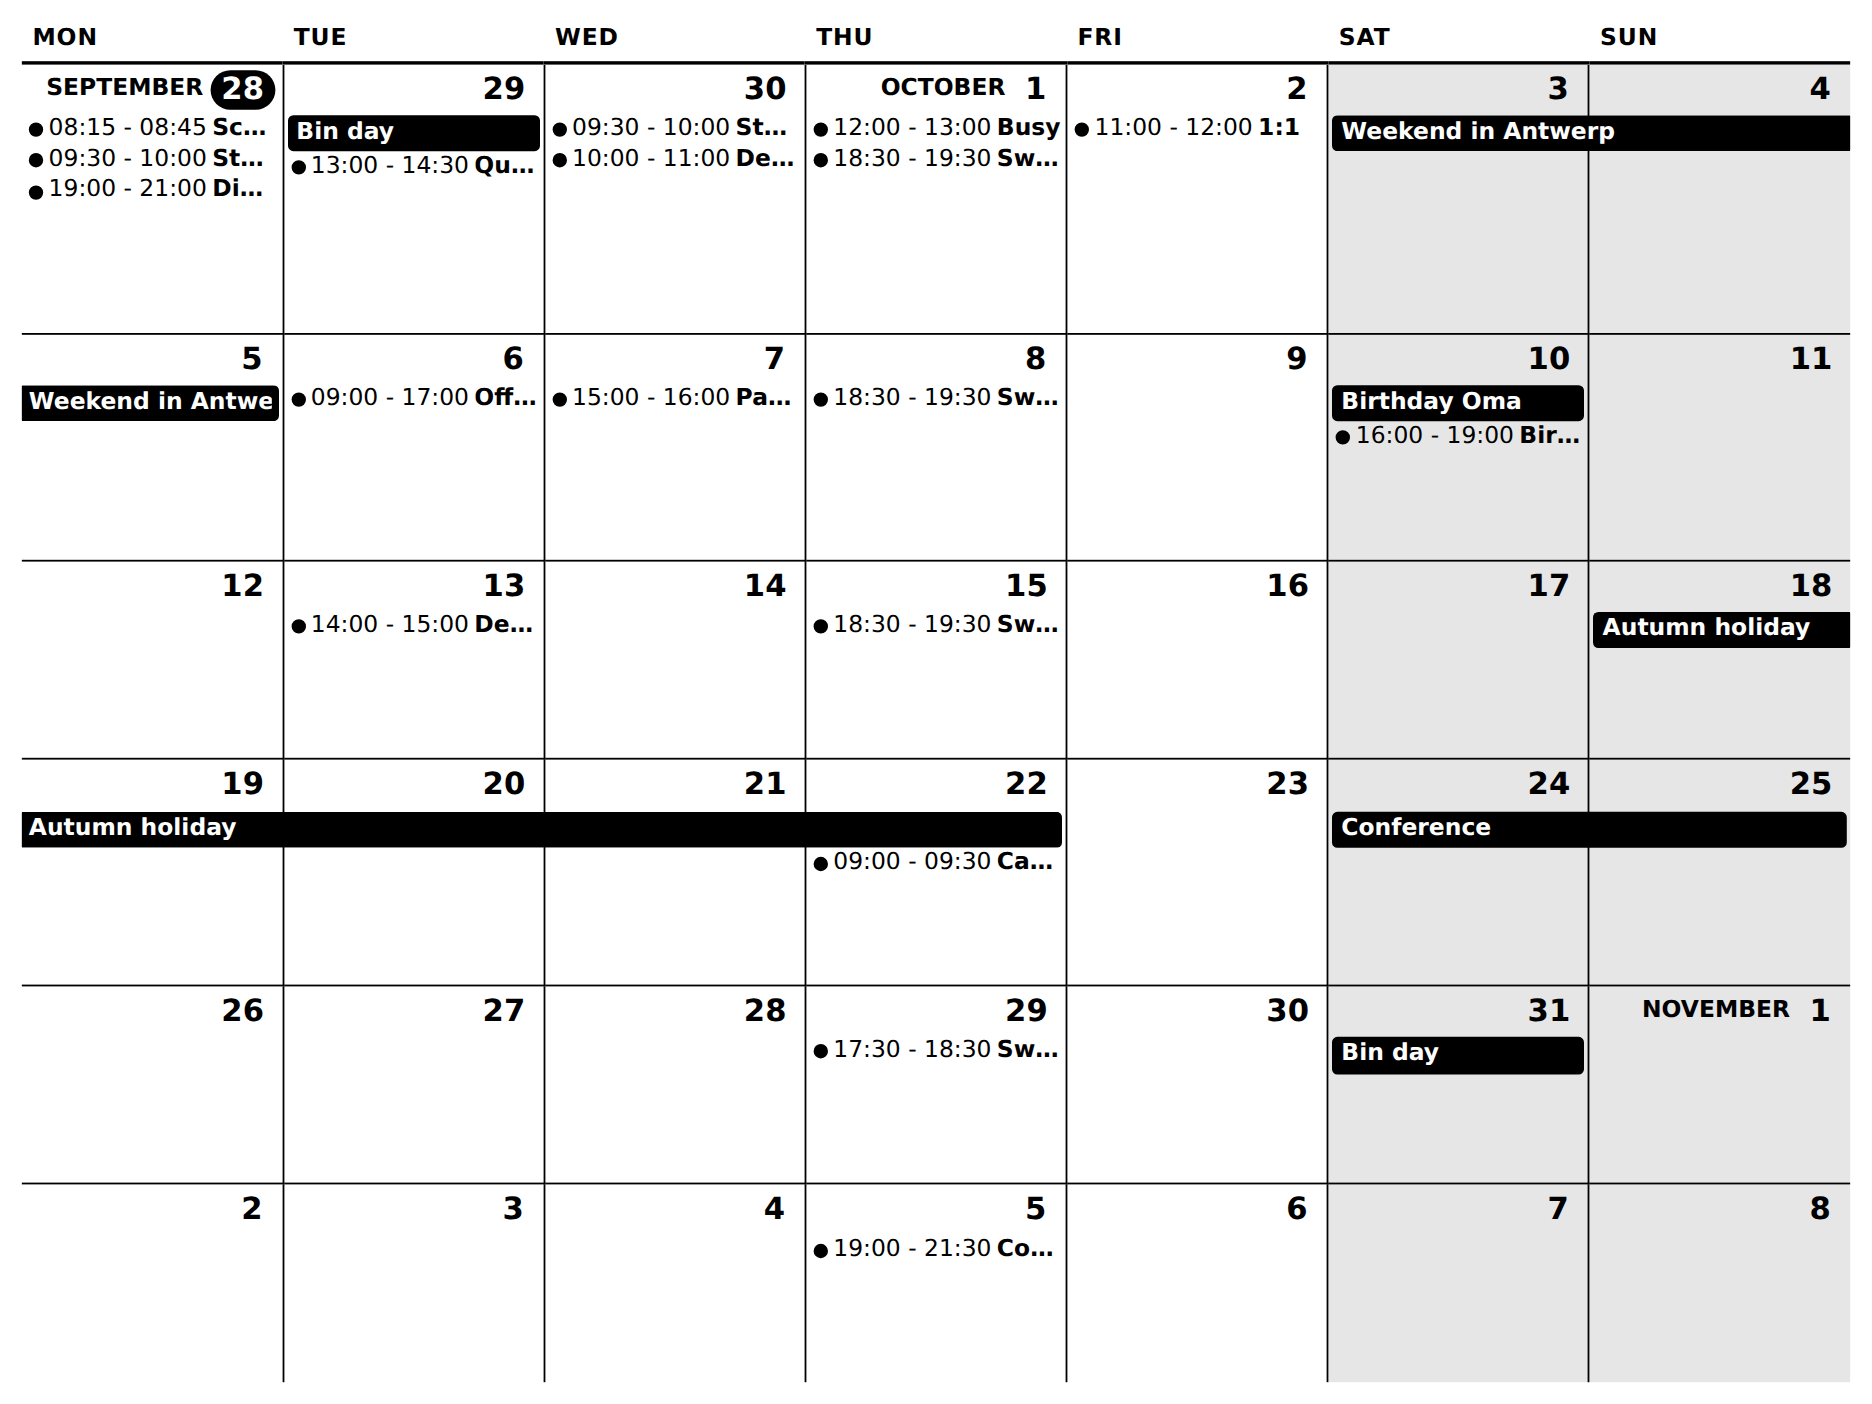
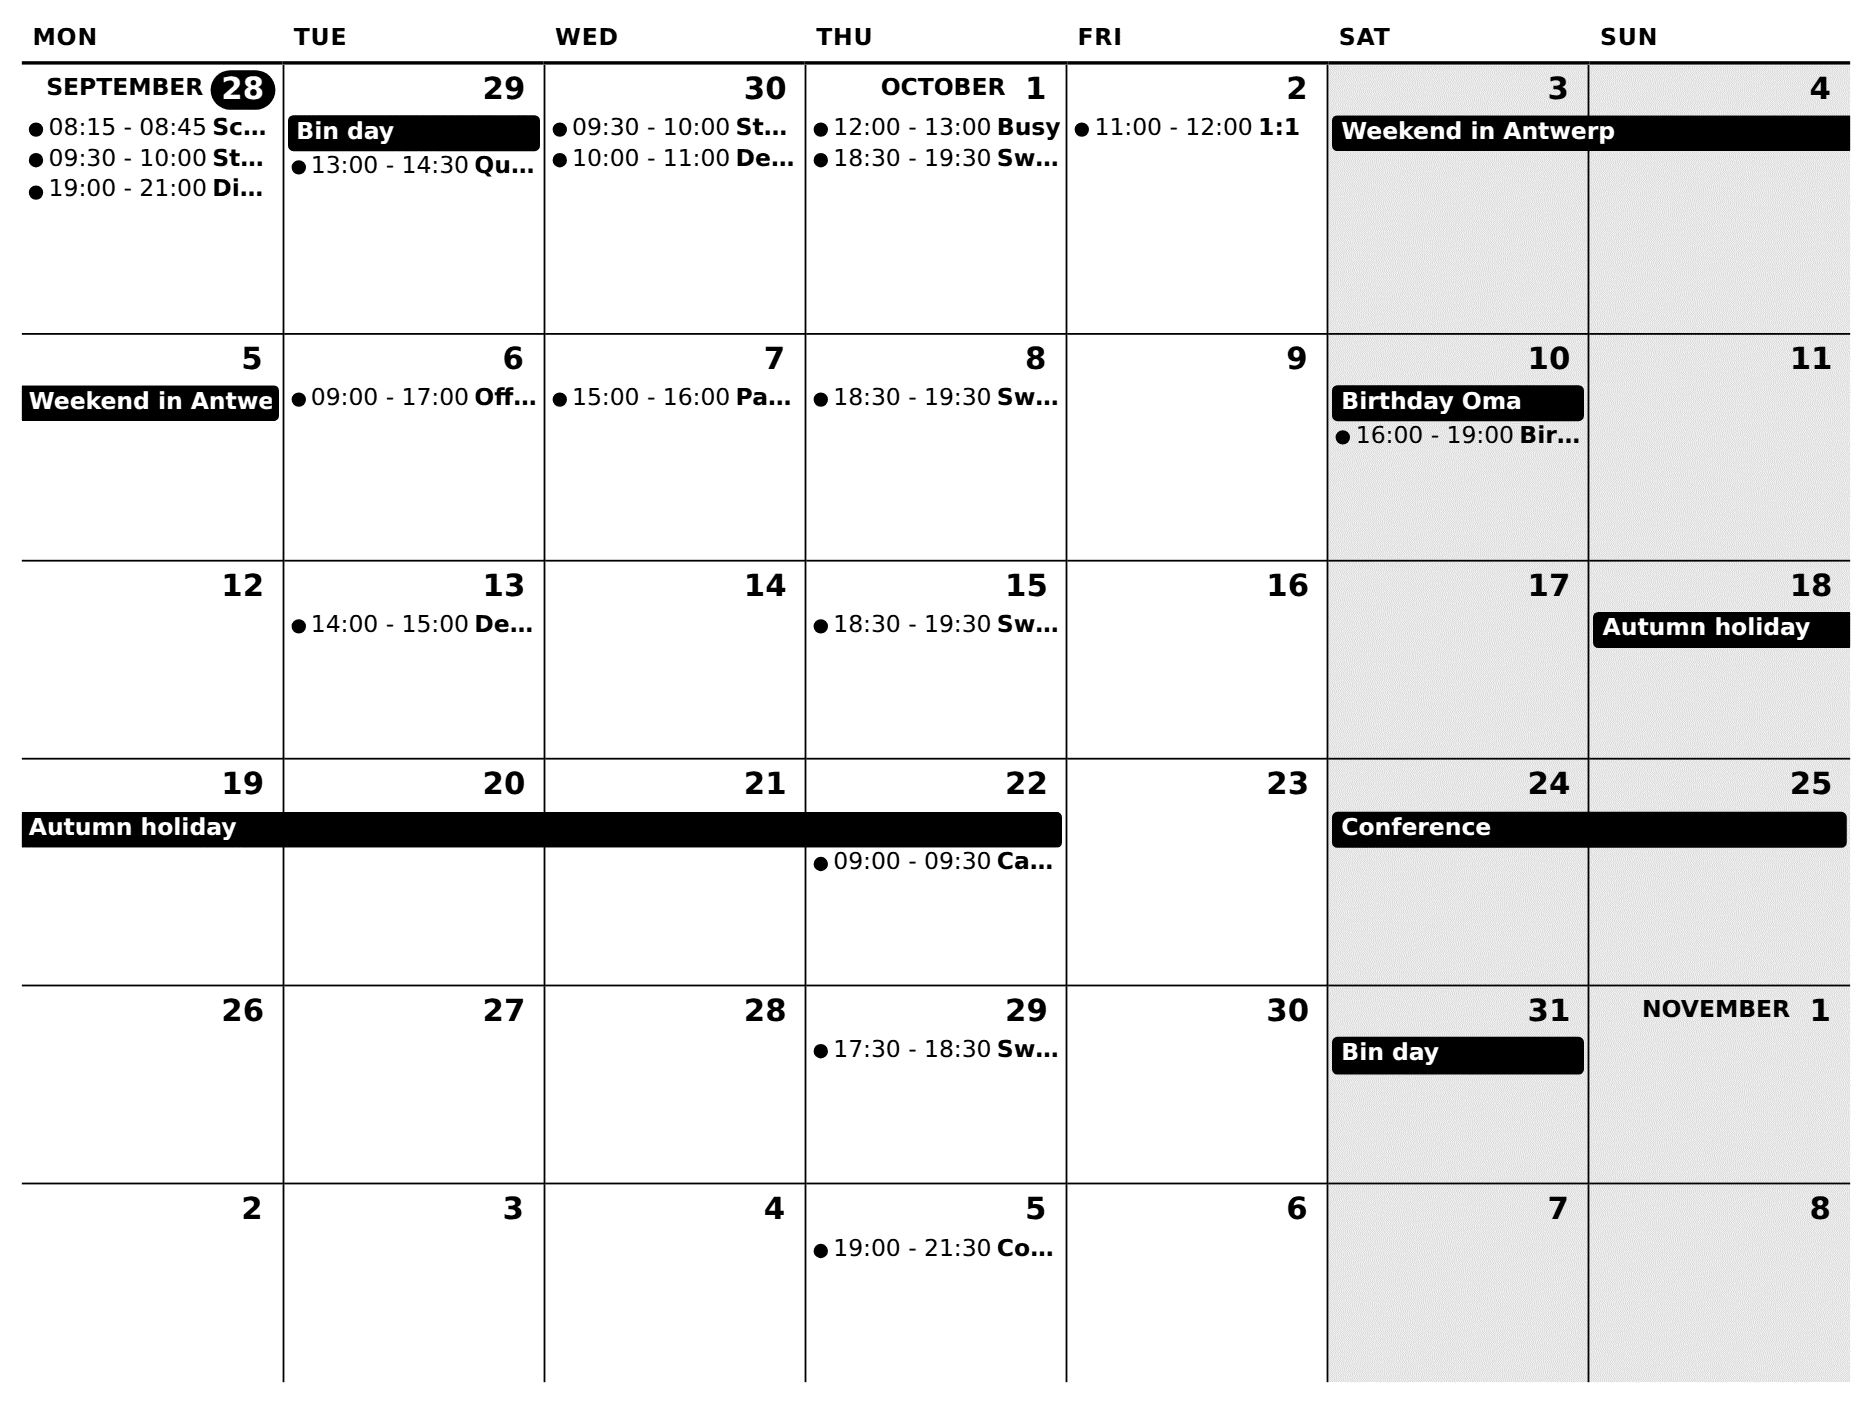
Add optional dithering of greys on 1-bit/2-bit screens
New "Greys on 1-bit / 2-bit screens" setting. "Adapt" (default) swaps the
greys for a sparse pixel pattern and solid black text, since LaraPaper
snaps 1-/2-bit output to the nearest level without dithering. "Dither"
keeps the greys and emits a hidden <img class="image-dither">, which is
LaraPaper's switch for Floyd-Steinberg dithering of the whole screen.
4-bit output (TRMNL X) is always dithered, so it is unaffected.

Also: small text gets a white backing on 1-/2-bit screens, long month
labels truncate instead of overflowing narrow cells, and the preview
now reduces screenshots to the device's grey levels like LaraPaper.

Claude-Session: https://claude.ai/code/session_01NUfQZbey5uqSoJDLA5m21y

diff --git a/README.md b/README.md
@@ -11,6 +11,9 @@ for what was carried over and what changed.
 
 ![preview](docs/preview.png)
 
+<sub>1-bit, adapted styles vs dithered:</sub><br>
+<img src="docs/preview-1bit-adapt.png" width="49%"> <img src="docs/preview-1bit-dither.png" width="49%">
+
 ```
 Home Assistant ──/api/calendars/<entity>──▶ LaraPaper (polls every 15 min)
                                                │ renders plugin/src/*.liquid
@@ -97,6 +100,7 @@ place and keeps your settings.
 | Show past events | yes | Earlier days of the current week |
 | Highlight today, Shade weekends | yes | |
 | Show month title, week numbers | no | |
+| Greys on 1-bit / 2-bit screens | Adapt styles | `Adapt` swaps greys for a pixel pattern and solid black text. `Dither` keeps the greys and has LaraPaper Floyd–Steinberg dither the whole screen. The TRMNL X (4-bit) is always dithered, so this only matters for 1-bit and 2-bit devices |
 | Locale | `en` | Day/month names, e.g. `nl`, `de` |
 | Ignore events containing / titled exactly | – | Same filters as upstream |
 
@@ -109,12 +113,13 @@ rows taller, so fewer fit.
 cd preview && npm install
 node render.mjs                                   # sample events → out/preview.png
 node render.mjs --set display_event_end=no --set locale=nl
+node render.mjs --device og --set dither_greys=yes    # 1-bit, dithered greys
 HA_URL=http://homeassistant.local:8123 HA_TOKEN=... \
   HA_CALENDARS=calendar.family,calendar.work node render.mjs   # your real calendars
 ```
 
 Options: `--set key=value` (any custom field), `--tz Europe/Amsterdam`,
-`--device og` (800×480), `--data payload.json`, `--out file.png`. It needs a Chromium;
+`--device og` / `og2` (800×480, 1-bit / 2-bit), `--raw` (skip the grey-level reduction), `--data payload.json`, `--out file.png`. It needs a Chromium;
 set `CHROMIUM_PATH` if Playwright can't find one. The preview renders with
 [liquidjs](https://liquidjs.com) and without the TRMNL framework CSS when trmnl.com
 isn't reachable, so small differences from LaraPaper's output are possible.
@@ -127,4 +132,7 @@ isn't reachable, so small differences from LaraPaper's output are possible.
 - FullCalendar and (for non-English locales) its locale bundle load from jsDelivr
   when the screen renders, so the LaraPaper container needs internet access. It
   also loads the TRMNL framework CSS from trmnl.com.
+- Like LaraPaper, the preview reduces the screenshot to the device's grey levels. 4-bit
+  is always dithered. 1-bit and 2-bit are dithered only when the page contains
+  `<img class="image-dither">`, which is what the `Dither` setting adds.
 - The token only goes into the request header. It is not written into the rendered page.

diff --git a/UPSTREAM.md b/UPSTREAM.md
@@ -39,7 +39,8 @@ Forked from [usetrmnl/plugins](https://github.com/usetrmnl/plugins), `lib/calend
   week-view now indicator, `dayHeaders`), the colour options (`colorize_events`,
   `palette_colors`, `adaptiveEventStroke`), because HA calendars have no colours, and the
   RSVP filter (`ignore_based_on_acceptance?`), because HA doesn't expose attendees.
-- **Added**: optional per-calendar labels, and a line above the grid naming any
-  calendar that failed to load.
+- **Added**: optional per-calendar labels, a line above the grid naming any
+  calendar that failed to load, and the 1-/2-bit grey handling setting (adapted
+  styles, or LaraPaper's `image-dither` switch for Floyd–Steinberg dithering).
 - **Settings**: exposed as custom fields (`settings.yml`) and read from
   `trmnl.plugin_settings.custom_fields_values`.
